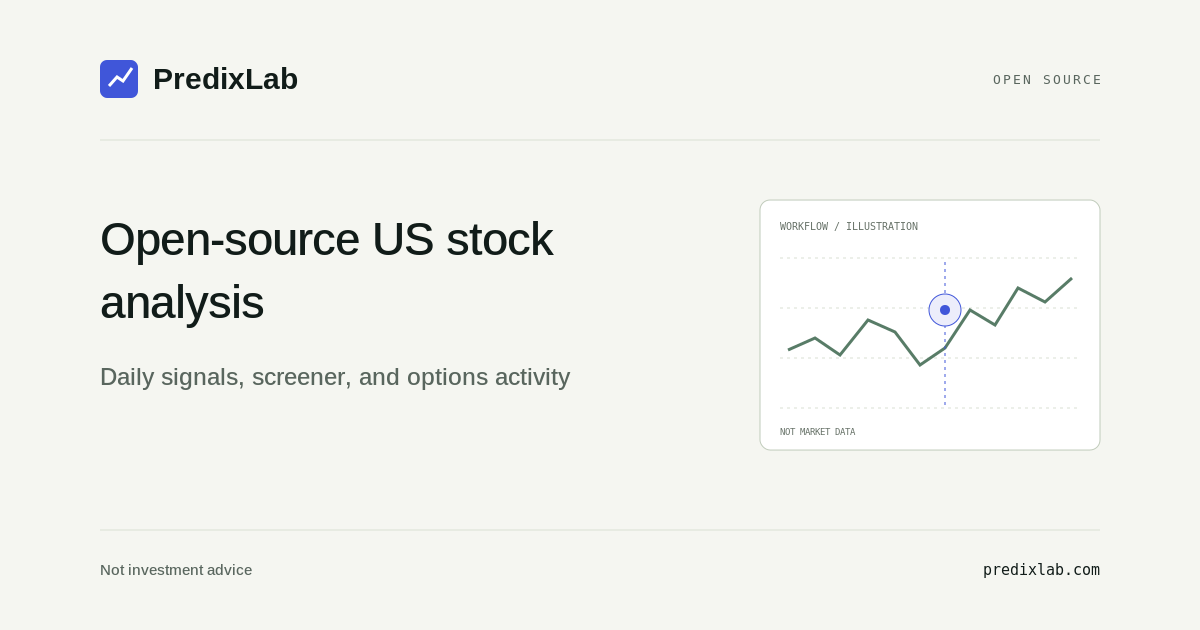
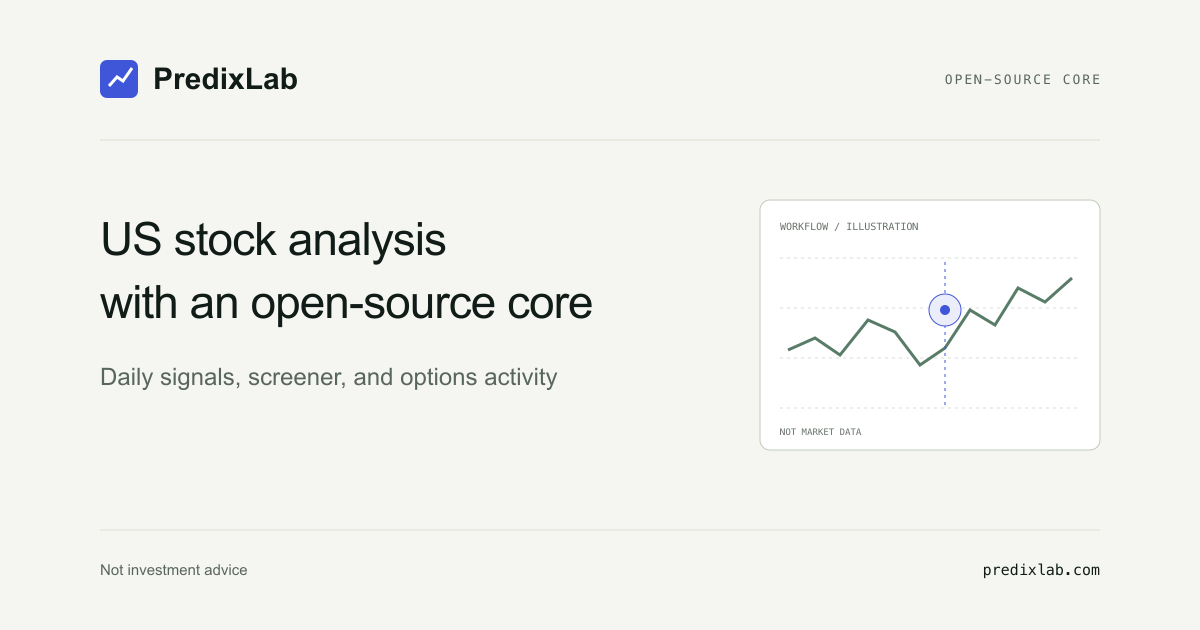
Update docs for component availability
Copilot-Session: b806e9f7-699c-46c6-b7c5-c91a8eaa3558

diff --git a/src/content/company.ts b/src/content/company.ts
@@ -10,22 +10,22 @@ export const pricingContent = {
     eyebrow: "自行部署，或使用托管服务。",
     title: ["先免费使用，", "再按需要升级。"],
     description:
-      "可使用免费的 Apache-2.0 源码，自备数据源运行流程，也可直接使用托管工作台。免费版可查看图表、选股器和历史信号；Premium 提供最新每日数据，月付和年付功能相同。",
+      "可使用免费的 Apache-2.0 源码，自备数据运行核心组件，也可直接使用托管工作台。数据采集和期权分析这两个组件暂不公开。免费版可查看图表、选股器和历史信号；Premium 提供最新每日数据，月付和年付功能相同。",
     billingLabel: "选择 Premium 的付费方式",
     monthly: "月付",
     annual: "年付",
     saving: "省 20%",
     selfHosted: "自托管版",
-    selfHostedBadge: "开源",
-    selfHostedDescription: "在自己的电脑或服务器上运行分析流程，数据源由你准备。",
+    selfHostedBadge: "核心开源",
+    selfHostedDescription: "在自己的电脑或服务器上运行核心组件，数据源由你准备。数据采集和期权分析这两个组件暂不公开。",
     selfHostedPeriod: "源码免费",
     selfHostedBilling: "Apache-2.0 仅适用于源码",
     selfHostedAction: "在 GitHub 查看源码",
     selfHostedGuide: "自托管指南",
     externalLinkNote: "（在新标签页中打开）",
-    selfHostedNote: "需要一定技术基础，请按各仓库的 README 自行部署和运行。",
+    selfHostedNote: "需要一定技术基础，请按公开仓库的 README 自行部署和运行核心组件。",
     selfHostedFeatures: [
-      "日线数据分析与信号生成流程源码",
+      "日线数据分析与信号生成的核心源码",
       "Apache-2.0 不涵盖行情数据和模型文件",
       "数据授权和相关费用由你负责",
       "GitHub Issues 社区支持，无托管支持或 SLA",
@@ -60,9 +60,9 @@ export const pricingContent = {
     footnote: "价格以美元计。你可以在工作台中管理或取消订阅，具体条款以结账页面为准。",
     compareEyebrow: "功能对比",
     compareTitle: "升级 Premium，跟进最新信号。",
-    compareDescription: "自托管版提供免费的 Apache-2.0 源码，需自备数据源，不含托管工作台。托管的免费版和 Premium 使用相同的模型；升级不会改变信号准确率，也不代表更低的投资风险。",
+    compareDescription: "自托管版提供免费的 Apache-2.0 核心源码，需自备数据源，不含托管工作台。数据采集和期权分析这两个组件暂不公开。托管的免费版和 Premium 使用相同的模型；升级不会改变信号准确率，也不代表更低的投资风险。",
     featureColumn: "功能",
-    selfHostedAvailability: "需自行部署并准备数据源",
+    selfHostedAvailability: "仅公开的核心组件，详见自托管指南",
     included: "包含",
     delayed: "延迟 10 天",
     latest: "最新已发布数据",
@@ -71,7 +71,7 @@ export const pricingContent = {
     questions: [
       {
         question: "使用自托管版需要准备什么？",
-        answer: "源码免费，采用 Apache-2.0 协议。使用自托管版需要一定技术基础：请按各仓库的 README，在自己的电脑或服务器上部署、运行和维护流程，自备数据源和计算资源。Apache-2.0 仅适用于源码，不涵盖行情数据和模型文件；数据授权及相关费用由你负责。自托管版不包含 PredixLab 的托管工作台、账户或托管数据，PredixLab 也不提供托管支持或 SLA 保障。遇到问题可通过 GitHub Issues 寻求社区帮助。流程基于日线数据生成每日信号，分析结果仅供参考，不构成投资建议。",
+        answer: "核心源码免费，采用 Apache-2.0 协议。数据采集和期权分析这两个组件暂不公开。使用自托管版需要一定技术基础：请按公开仓库的 README，在自己的电脑或服务器上部署、运行和维护核心组件，自备数据源和计算资源。Apache-2.0 仅适用于源码，不涵盖行情数据和模型文件；数据授权及相关费用由你负责。自托管版不包含 PredixLab 的托管工作台、账户或托管数据，PredixLab 也不提供托管支持或 SLA 保障。遇到问题可通过 GitHub Issues 寻求社区帮助。信号组件基于日线数据生成每日信号，分析结果仅供参考，不构成投资建议。",
       },
       {
         question: "月付和年付的功能一样吗？",
@@ -91,22 +91,22 @@ export const pricingContent = {
     eyebrow: "SELF-HOSTED OR HOSTED. YOUR CHOICE.",
     title: ["Start with Free.", "Stay current with Premium."],
     description:
-      "Run the open-source pipeline yourself for free (Apache-2.0) with your own data sources, or use the hosted dashboard. Free includes charts, the screener, and past signals. Choose Premium for the latest daily data, with the same features on monthly and annual billing.",
+      "Run the open-source core components yourself for free (Apache-2.0) with your own data, or use the hosted dashboard. Data collection and options analysis are not publicly available at this time. Free includes charts, the screener, and past signals. Choose Premium for the latest daily data, with the same features on monthly and annual billing.",
     billingLabel: "Choose how to pay for Premium",
     monthly: "Monthly",
     annual: "Annual",
     saving: "Save 20%",
     selfHosted: "Self-hosted",
-    selfHostedBadge: "Open source",
-    selfHostedDescription: "Run the pipeline on your own computer or servers, using your own data sources.",
+    selfHostedBadge: "Open-source core",
+    selfHostedDescription: "Run the core components on your own computer or servers, using your own data sources. Data collection and options analysis are not publicly available at this time.",
     selfHostedPeriod: "free source code",
     selfHostedBilling: "Apache-2.0 covers source code only",
     selfHostedAction: "View source on GitHub",
     selfHostedGuide: "Self-hosting guide",
     externalLinkNote: " (opens in a new tab)",
-    selfHostedNote: "Technical setup required. Follow each repository's README to deploy and run it.",
+    selfHostedNote: "Technical setup required. Follow the public repositories' READMEs to deploy and run the core components.",
     selfHostedFeatures: [
-      "Daily-data pipeline: analysis and signal generation",
+      "Core code for daily-data analysis and signal generation",
       "Apache-2.0 excludes market data and model files",
       "You handle data licensing and related costs",
       "GitHub Issues community support; no hosted support or SLA",
@@ -141,9 +141,9 @@ export const pricingContent = {
     footnote: "Prices are in USD. Manage or cancel your subscription in the dashboard. The terms shown at checkout apply.",
     compareEyebrow: "COMPARE FEATURES",
     compareTitle: "Same tools. More recent signal data.",
-    compareDescription: "Self-hosting uses free Apache-2.0 source code and your own data sources, not the hosted dashboard. The hosted Free and Premium plans use the same models. Upgrading doesn't change signal accuracy or reduce investment risk.",
+    compareDescription: "Self-hosting uses the free Apache-2.0 core code and your own data sources, not the hosted dashboard. Data collection and options analysis are not publicly available at this time. The hosted Free and Premium plans use the same models. Upgrading doesn't change signal accuracy or reduce investment risk.",
     featureColumn: "Feature",
-    selfHostedAvailability: "Requires setup and your own data sources",
+    selfHostedAvailability: "Public core components only; see self-hosting guide",
     included: "Included",
     delayed: "10-day delay",
     latest: "Latest published data",
@@ -152,7 +152,7 @@ export const pricingContent = {
     questions: [
       {
         question: "What do I need for the Self-hosted plan?",
-        answer: "The source code is free under Apache-2.0. You'll need technical skills to deploy, run, and maintain the pipeline on your own computer or servers, following each repository's README and supplying your own data sources and compute. Apache-2.0 covers the source code only, not market data or model files. You're responsible for data licensing and related costs. This plan does not include PredixLab's hosted dashboard, account, or hosted data. PredixLab provides no hosted support or SLA; community support is available through GitHub Issues. The pipeline generates daily signals from daily data. The analysis is for information only, not investment advice.",
+        answer: "The core source code is free under Apache-2.0. Data collection and options analysis are not publicly available at this time. You'll need technical skills to deploy, run, and maintain the core components on your own computer or servers, following the public repositories' READMEs and supplying your own data sources and compute. Apache-2.0 covers the source code only, not market data or model files. You're responsible for data licensing and related costs. This plan does not include PredixLab's hosted dashboard, account, or hosted data. PredixLab provides no hosted support or SLA; community support is available through GitHub Issues. The signal component generates daily signals from daily data. The analysis is for information only, not investment advice.",
       },
       {
         question: "Do monthly and annual plans have the same features?",

diff --git a/src/content/site.ts b/src/content/site.ts
@@ -65,9 +65,9 @@ export const faqContent: Record<SiteLanguage, Question[]> = {
 export const homeContent = {
   zh: {
     eyebrow: "免费开始 · 自己部署或用托管版",
-    title: ["美股选股器、每日信号和期权异动，", "代码全部开源"],
+    title: ["美股选股器、每日信号和期权异动，", "核心代码开源"],
     description:
-      "覆盖标普 500 和纳斯达克 100，基于日线数据。可以直接用托管版工作台，也可以按 Apache-2.0 协议自己部署。方法公开写明，每个信号都能对照这只股票过去的信号。",
+      "覆盖标普 500 和纳斯达克 100，基于日线数据。可以直接用托管版工作台，也可以按 Apache-2.0 协议自己部署核心组件。数据采集和期权分析这两个组件暂不公开。方法公开写明，每个信号都能对照这只股票过去的信号。",
     descriptionLink: "方法公开写明",
     primary: "免费开始使用",
     secondary: "了解产品功能",
@@ -103,9 +103,9 @@ export const homeContent = {
   },
   en: {
     eyebrow: "Free to start · Self-host or hosted",
-    title: ["Open-source US stock analysis:", "daily signals, screener, and options activity"],
+    title: ["US stock analysis with an open-source core:", "daily signals, screener, and options activity"],
     description:
-      "Use the hosted dashboard for S&P 500 and Nasdaq-100 stocks, or run the Apache-2.0 code yourself. Built on daily data, with the method documented and each signal shown alongside that stock's past signals.",
+      "Use the hosted dashboard for S&P 500 and Nasdaq-100 stocks, or run the Apache-2.0 core code yourself. Data collection and options analysis are not publicly available at this time. Built on daily data, with the method documented and each signal shown alongside that stock's past signals.",
     descriptionLink: "the method documented",
     primary: "Get started free",
     secondary: "Explore the tools",

diff --git a/src/content/docs/self-hosting.md b/src/content/docs/self-hosting.md
@@ -1,38 +1,40 @@
 ---
 lang: en
-title: "Self-host PredixLab: run the open-source signal pipeline"
+title: "Self-host PredixLab: run the open-source core"
 shortTitle: "Self-hosting"
-description: "Run PredixLab's Apache-2.0 code for data collection, signals, options analysis, API and dashboard. Market data and model files aren't covered."
-summary: "The open-source repositories, how they fit together, and how to run the tests and collect data yourself."
+description: "Self-host PredixLab's Apache-2.0 core components. Data collection and options analysis are not publicly available at this time."
+summary: "The six public repositories, how the components fit together, and how to run the signal tests with the available code."
 h1: "Self-host PredixLab"
 date: "2026-10-21"
-updated: "2026-10-21"
+updated: "2026-10-22"
 order: "3"
 translationKey: self-hosting
 ---
 
 # Self-host PredixLab
 
-All code from data collection to daily signals is open source under Apache-2.0. Here's what you need to run it yourself.
+The core components (signals, API, dashboard, campaign, infrastructure, and website) are open source under Apache-2.0. Data collection and options analysis are not publicly available at this time.
 
-We publish the code so you don't have to take our word for the method. Read it, run it, and tell us where it's wrong.
+We publish the core code so you don't have to take our word for the method. Read it, run it, and tell us where it's wrong.
 
 ## Why open source
 
-Most signal tools ask you to trust numbers without showing how they're made. We'd rather show the work. The data sources, features, labels, validation splits, and backtest assumptions described in the [How it works](/docs/how-it-works/) doc all live in code. Anyone can reproduce or challenge them.
+Most signal tools ask you to trust numbers without showing how they're made. We'd rather show the work. The signal features, labels, validation splits, and backtest assumptions described in the [How it works](/docs/how-it-works/) doc are in the public signals code. You can inspect the method and check it with your own inputs.
 
 ## The repositories
 
+These 6 repositories are public and licensed under Apache-2.0:
+
 | Repository | What it does | Stack |
 | --- | --- | --- |
-| [predixlab-collector](https://github.com/predixlab/predixlab-collector) | Maintains index membership, trading calendars, and daily OHLCV for S&P 500 and Nasdaq-100 stocks; builds the market overview and screener snapshots | Python 3.12+ |
 | [predixlab-signals](https://github.com/predixlab/predixlab-signals) | Builds datasets, runs walk-forward training of LightGBM models, evaluates and backtests them, and publishes daily Pivot events and AlphaRank rankings | Python 3.11+ |
-| [predixlab-options](https://github.com/predixlab/predixlab-options) | Compares options chains session to session, flags unusual open-interest changes, and estimates gamma exposure and volatility structure | Python 3.10+ |
 | [predixlab-api](https://github.com/predixlab/predixlab-api) | FastAPI backend for accounts, market data, signals, screeners, watchlists, and subscriptions | Python 3.12+ |
 | [predixlab-webapp](https://github.com/predixlab/predixlab-webapp) | The signed-in dashboard: signals with charts, market overview, screener, signal performance, options activity | React, TypeScript |
 | [predixlab-portal](https://github.com/predixlab/predixlab-portal) | This website: bilingual product pages, pricing, and legal pages, pre-rendered to static HTML | React, TypeScript |
 | [predixlab-campaign](https://github.com/predixlab/predixlab-campaign) | Opt-in email delivery, currently the Premium daily-signals digest, with unsubscribe handling | Python, Azure Functions |
 | [predixlab-infra](https://github.com/predixlab/predixlab-infra) | Shared job schedules and workload definitions, Azure Bicep templates, and a local staging environment | Bicep, shell |
+
+**Data collection** (`predixlab-collector`) maintains index membership, trading calendars, and daily OHLCV for S&P 500 and Nasdaq-100 stocks, and builds market overview and screener snapshots. **Options analysis** (`predixlab-options`) compares options chains session to session, flags unusual open-interest changes, and estimates gamma exposure and volatility structure. These two components are not publicly available at this time.
 
 ### How the pieces connect
 
@@ -46,7 +48,7 @@ portal → public pages → links into the dashboard
 
 ## Run it or check it
 
-You don't need an account to inspect the method. Each repository's README has a quick start. Here are three useful entry points.
+You don't need an account to inspect the public code. The public repositories' READMEs describe their setup. Start with the signal tests.
 
 **Run the signal tests** (Python 3.11+ and [uv](https://docs.astral.sh/uv/)):
 
@@ -59,25 +61,11 @@ uv run pytest -q
 
 The tests cover leakage rules directly. Appending future data must not change past features or events. Forward labels must exclude the signal day. The purge gap must cover the label horizon. Pivot backtest entries must occur on the next session, never the signal day, and same-day target/stop touches are resolved stop-first. The tests don't remove the data limitations listed in the [Known limitations](/docs/limitations/) doc, such as missing delisted companies.
 
-**Collect a small sample of prices:**
-
-```bash
-git clone https://github.com/predixlab/predixlab-collector.git
-cd predixlab-collector
-cp .env.example .env
-uv sync --frozen
-uv run predixlab-collector collect_index --market=us
-uv run predixlab-collector collect_calendar --market=us --start_date=2024-01-01
-uv run predixlab-collector collect_data --market=us --provider=yahoo --symbols=AAPL,MSFT --start_date=2024-01-01
-```
-
-**Read the options gates:** the thresholds and scoring are documented in [`docs/anomaly-detection.md`](https://github.com/predixlab/predixlab-options/blob/main/docs/anomaly-detection.md) and implemented in `options_monitor/analyzer.py` and `options_monitor/config.py`.
-
-Full research runs (dataset → train → evaluate → backtest → report) need the complete historical data tree. The signals README lists the exact commands.
+Full research runs (dataset → train → evaluate → backtest → report) need the complete historical data tree: daily OHLCV, dated index membership intervals, and a trading calendar, as described in [How it works](/docs/how-it-works/#data-sources). Data collection is not publicly available at this time; this guide does not provide a data-preparation workflow. The signals README lists the research commands.
 
 ## What the license does and doesn't cover
 
-The source code is Apache-2.0. The license does not grant rights to third-party market data. Yahoo Finance, Cboe, and other providers keep their own terms, and the code shouldn't be used to bypass their access limits. Trained model files and the hosted service are also outside the license. Model bundles are Python pickles: only load ones from a source you trust.
+The public source code is Apache-2.0. The license does not grant rights to third-party market data. Yahoo Finance, Cboe, and other providers keep their own terms, and the code shouldn't be used to bypass their access limits. Trained model files and the hosted service are also outside the license. Model bundles are Python pickles: only load ones from a source you trust.
 
 ## Contribute
 

diff --git a/README.md b/README.md
@@ -42,7 +42,7 @@ Language-prefixed routes such as `/en/...` and `/zh/...` are not supported and r
 
 The retired `/insights/` listing permanently redirects to `/blog/`, and `/insights/walk-forward-validation-stock-signals/` permanently redirects to `/blog/walk-forward-validation/`. Their `/en/insights/...` variants redirect to the same targets. These old URLs are not linked or included in the sitemap.
 
-The $0 Self-hosted option is Apache-2.0 pipeline source code, not a hosted offer. Users deploy it with their own infrastructure, data licenses, and compute; it does not include PredixLab-hosted data, a dashboard, an account, or an SLA. Hosted Free and Premium prices and structured-data offers remain separate.
+The $0 Self-hosted option provides the Apache-2.0 core components: signals, API, dashboard, campaign, infrastructure, and website. Data collection and options analysis are not publicly available at this time. Users deploy the public components with their own infrastructure, data licenses, and compute; this is not a hosted offer and does not include PredixLab-hosted data, a dashboard, an account, or an SLA. Hosted Free and Premium prices and structured-data offers remain separate.
 
 The homepage scene is an original workflow illustration, not a live chart or an actual security's history. It progresses through price/volume, technical context, and an example signal. Manual stage selection pauses autoplay. A pause control, reduced-motion preference, offscreen detection, and document visibility limit nonessential animation. All substantive English content remains available without JavaScript; switching to Chinese requires JavaScript.
 
@@ -99,7 +99,7 @@ checks the footer links, open-source status, profile identities, and PNG logo di
 
 The sitemap is generated from `sitePages`, including automatically discovered blog posts and docs. It contains only unprefixed canonical HTML-page URLs. Blog posts and docs use `updated` as `lastmod`; each index uses the newest article update in its section. Existing product, company, and legal pages omit `lastmod`. Do not maintain a separate list of URLs or language alternates. The not-found document is excluded from indexing. The Azure configuration serves actual 404 responses rather than rewriting arbitrary URLs to the homepage. Its global error override serves the default-English `/404.html`, which supports the same in-page language choice. Unknown and unsupported language-prefixed paths remain 404s; only the explicit retired insights paths redirect.
 
-Posts emit `BlogPosting`, docs emit `TechArticle`, both with `datePublished` from `date` and `dateModified` from `updated`, and self-hosting emits one Apache-2.0 `SoftwareSourceCode` per repository-table row. Articles reference the shared Organization node and include dates, language, canonical URL and sharing image. They use `og:type: article` with publication/modification times; index pages retain `website`. Both indexes emit `CollectionPage` and `ItemList`; docs list descriptions use the visible summaries. Docs and blog pages have visible breadcrumbs and matching `BreadcrumbList` data. Blog pages advertise `/blog/rss.xml` in their head; the generated RSS feed uses production-host self/item links, `language: en`, and a deterministic RFC-822 `lastBuildDate` derived from the newest post publication/update, not the build clock. The RSS route retains its `application/rss+xml` header hint, but Azure Static Web Apps serves static XML as `text/xml` in production; readers accept it. Do not add a global `.xml` MIME override, which would also affect the sitemap.
+Posts emit `BlogPosting`, docs emit `TechArticle`, both with `datePublished` from `date` and `dateModified` from `updated`, and self-hosting emits one Apache-2.0 `SoftwareSourceCode` per public repository-table row (6 total). Articles reference the shared Organization node and include dates, language, canonical URL and sharing image. They use `og:type: article` with publication/modification times; index pages retain `website`. Both indexes emit `CollectionPage` and `ItemList`; docs list descriptions use the visible summaries. Docs and blog pages have visible breadcrumbs and matching `BreadcrumbList` data. Blog pages advertise `/blog/rss.xml` in their head; the generated RSS feed uses production-host self/item links, `language: en`, and a deterministic RFC-822 `lastBuildDate` derived from the newest post publication/update, not the build clock. The RSS route retains its `application/rss+xml` header hint, but Azure Static Web Apps serves static XML as `text/xml` in production; readers accept it. Do not add a global `.xml` MIME override, which would also affect the sitemap.
 
 [`public/robots.txt`](public/robots.txt) is the single source of truth for crawler rules on predixlab.com and is meant to replace Cloudflare's managed robots.txt. Vite copies it unchanged to `dist/robots.txt`; build validation checks that general crawling stays allowed, the listed AI-training crawlers are blocked, search crawlers are not blocked, and the sitemap directive is preserved.
 

diff --git a/src/content/docs/how-it-works.md b/src/content/docs/how-it-works.md
@@ -6,14 +6,14 @@ description: "Data sources, nightly schedule, features, walk-forward validation,
 summary: "Data sources, update schedule, the two models, walk-forward validation, and backtest assumptions."
 h1: "How PredixLab works: data, updates, signals and backtests"
 date: "2026-10-21"
-updated: "2026-10-21"
+updated: "2026-10-22"
 order: "1"
 translationKey: how-it-works
 ---
 
 # How PredixLab works: data, updates, signals and backtests
 
-PredixLab is a set of analysis tools for US stocks. This page explains where the data comes from, when it updates, how the models are trained and tested, and what the results can't tell you. The full code is open source, so every step described here can be checked in the repositories linked below.
+PredixLab is a set of analysis tools for US stocks. This page explains where the data comes from, when it updates, how the models are trained and tested, and what the results can't tell you. The core components (signals, API, dashboard, campaign, infrastructure, and website) are open source under Apache-2.0. Data collection and options analysis are not publicly available at this time.
 
 ## The short version
 
@@ -33,6 +33,8 @@ PredixLab is a set of analysis tools for US stocks. This page explains where the
 | Trading calendar | Derived from S&P 500 index (`^GSPC`) history | Used to decide which dates are trading sessions |
 | Reference ETFs | SPY, QQQ, IWM, DIA | Kept separately for market context |
 | Options chains | Cboe snapshots, collected by `predixlab-options` | Compared session to session, contract by contract |
+
+The table names the data collection and options analysis components. These two components are not publicly available at this time.
 
 Prices are cleaned before use: rows with missing dates or closes, or non-positive prices, are dropped, and duplicate dates keep the last row. Where the provider supplies adjustment factors they are applied; currently most symbols use split-only or unadjusted prices without dividends, so returns are price returns. On a scheduled run, if the target session's data is missing or widely repeated, the job stops before writing new results instead of silently reusing old numbers. Individual symbols with bad data are left out of that day's run.
 
@@ -124,4 +126,4 @@ Candidates get a 0–100 activity score. A stock needs at least two qualifying c
 
 ## Check it yourself
 
-All of this is implemented in open-source repositories under the Apache-2.0 license: [predixlab-collector](https://github.com/predixlab/predixlab-collector), [predixlab-signals](https://github.com/predixlab/predixlab-signals), and [predixlab-options](https://github.com/predixlab/predixlab-options). The signals repository's tests check leakage rules directly: appending future data must not change past features or events, and Pivot backtest entries must occur on the next session, never the signal day. See [Self-hosting](/docs/self-hosting/) for how to run them.
+The signal features, training, and backtests are implemented in [predixlab-signals](https://github.com/predixlab/predixlab-signals), which is open source under Apache-2.0. Its tests check leakage rules directly: appending future data must not change past features or events, and Pivot backtest entries must occur on the next session, never the signal day. Data collection and options analysis are not publicly available at this time. See [Self-hosting](/docs/self-hosting/) for the public repositories and how to run the signal tests.

diff --git a/src/content/docs/index.md b/src/content/docs/index.md
@@ -2,15 +2,15 @@
 lang: en
 title: "PredixLab docs: how it works, limitations and self-hosting"
 shortTitle: "Docs"
-description: "Understand PredixLab's data, signals and backtests, review known limitations, and run the open-source code yourself."
-summary: "Learn how PredixLab works, what its results can't tell you, and how to run the code yourself."
+description: "Understand PredixLab's data, signals and backtests, review known limitations, and self-host the open-source core components."
+summary: "Learn how PredixLab works, what its results can't tell you, and how to run the public core components."
 h1: "How PredixLab works, where it falls short, and how to run it"
 date: "2026-10-21"
-updated: "2026-10-21"
+updated: "2026-10-22"
 order: "0"
 translationKey: docs
 ---
 
 # How PredixLab works, where it falls short, and how to run it
 
-Learn how PredixLab works, what its results can't tell you, and how to run the code yourself.
+Learn how PredixLab works, what its results can't tell you, and how to run the public core components. Data collection and options analysis are not publicly available at this time.
